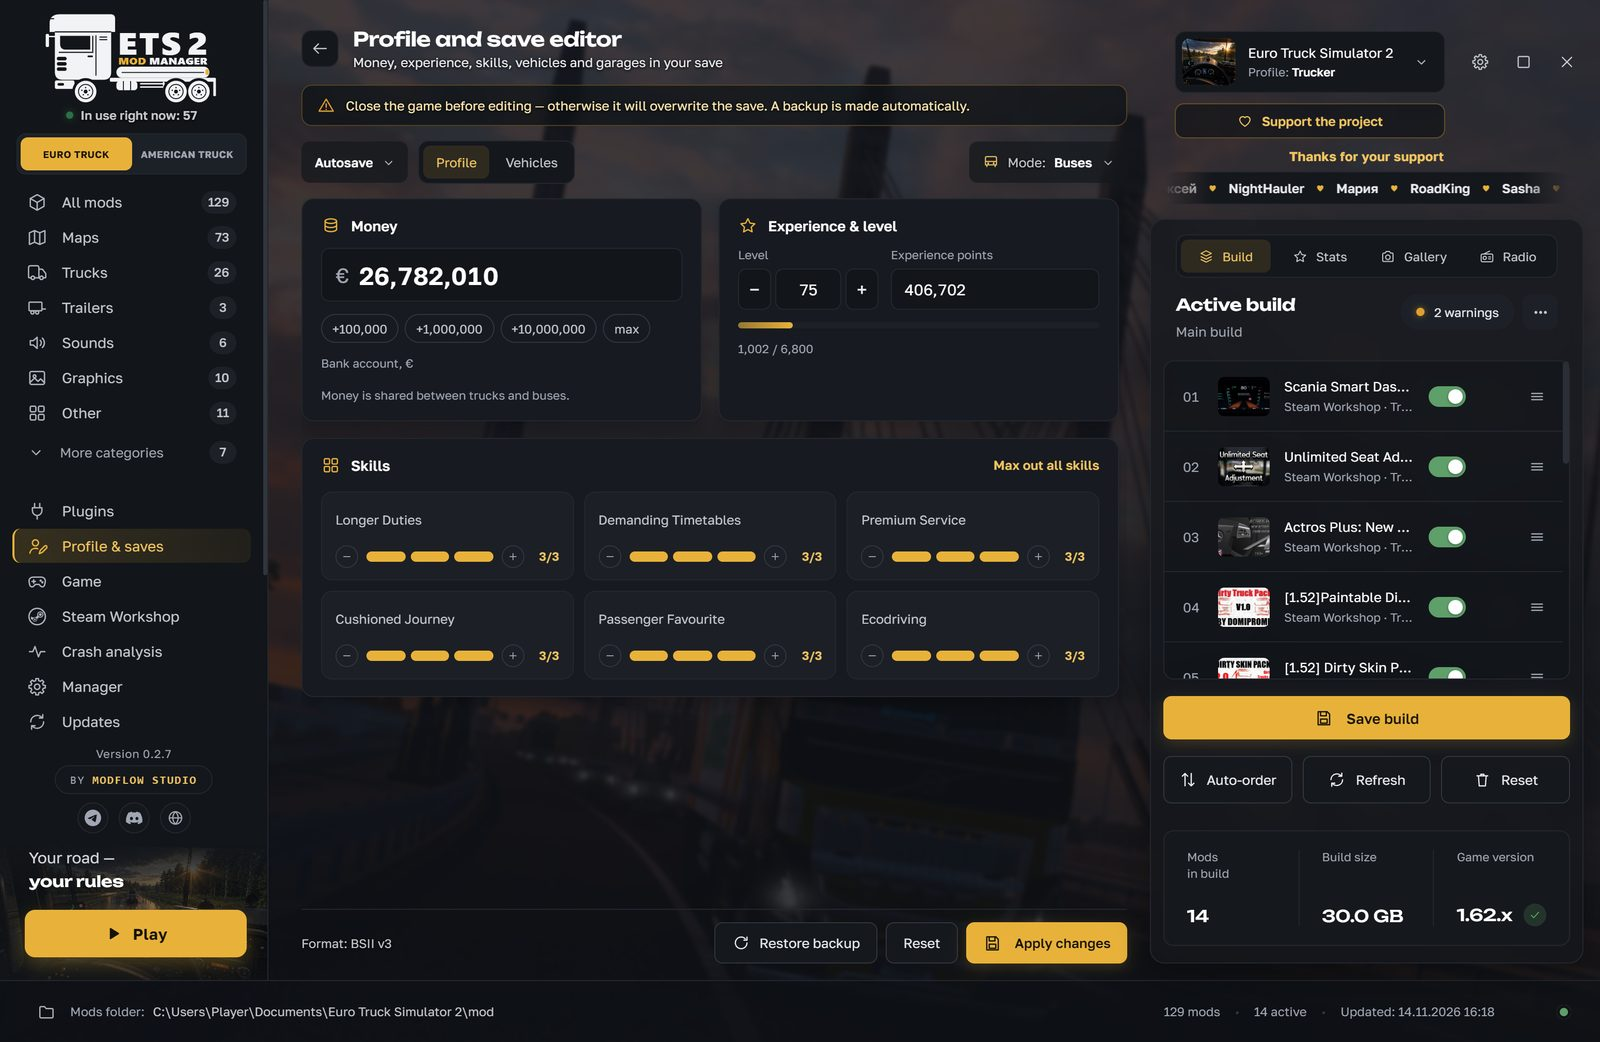
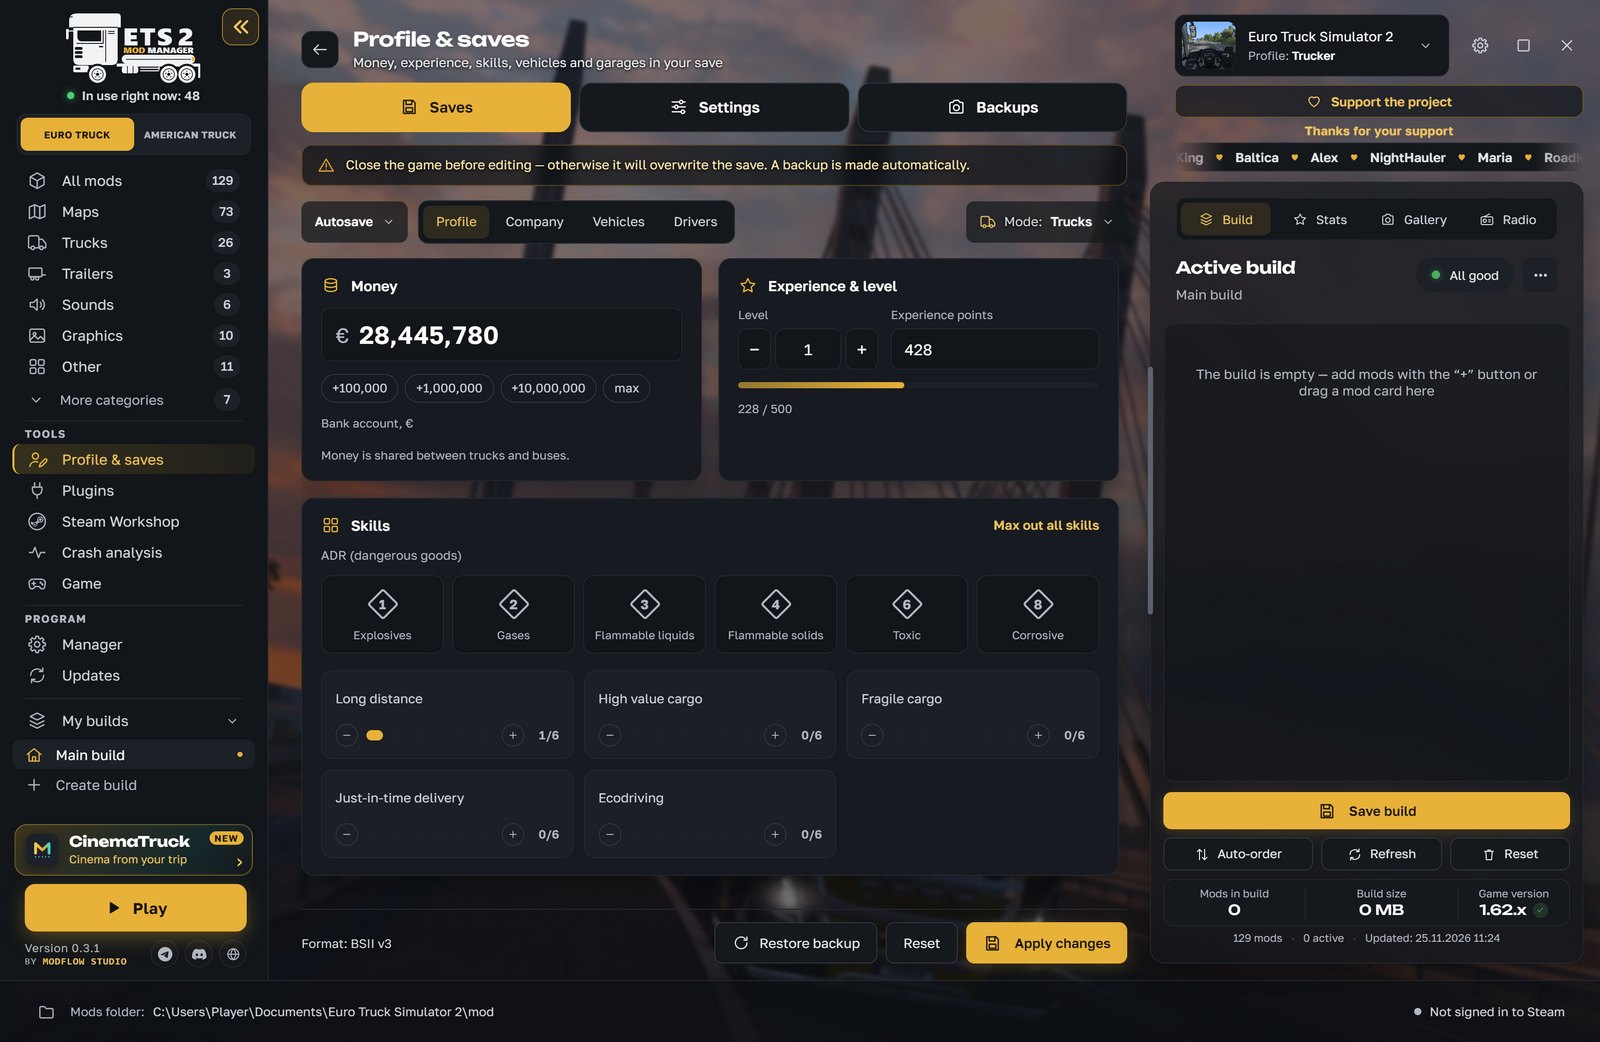
Новые скриншоты для 0.3.1, обновлено описание

diff --git a/README.md b/README.md
@@ -53,7 +53,6 @@
 
 **Две игры в одной программе**
 - Euro Truck Simulator 2 и American Truck Simulator переключаются одной кнопкой, у каждой игры свои моды, профили и сборки.
-- Поддержка ATS пока в разработке и может работать нестабильно.
 
 ## Скриншоты
 

diff --git a/README.en.md b/README.en.md
@@ -53,7 +53,6 @@ Build your own set from folder and Steam Workshop mods, put them in the right or
 
 **Two games in one program**
 - Euro Truck Simulator 2 and American Truck Simulator switch with one button, and each game has its own mods, profiles and builds.
-- ATS support is still in development and may be unstable.
 
 ## Screenshots
 
